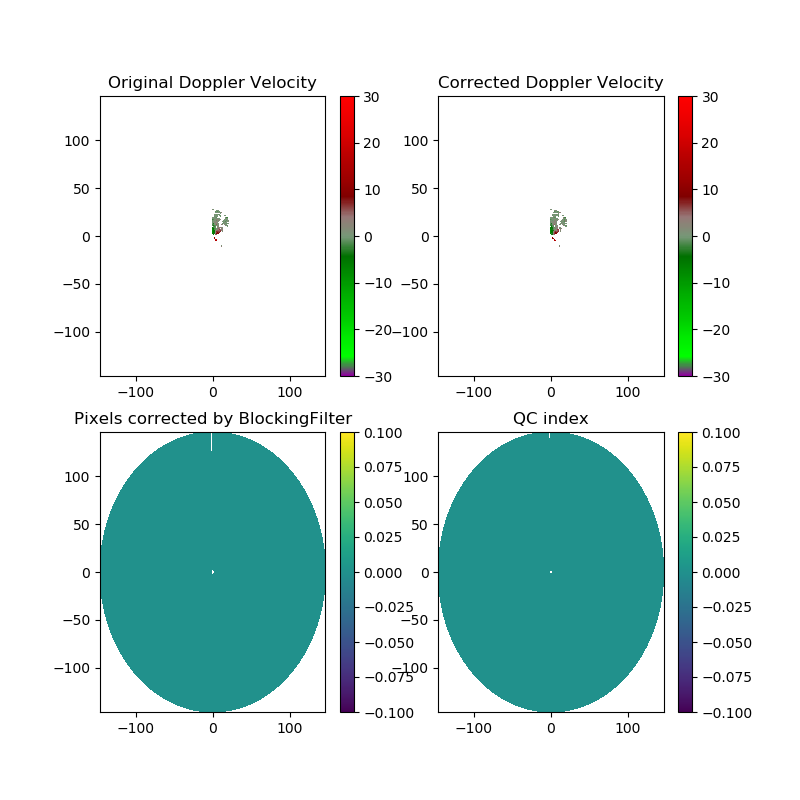
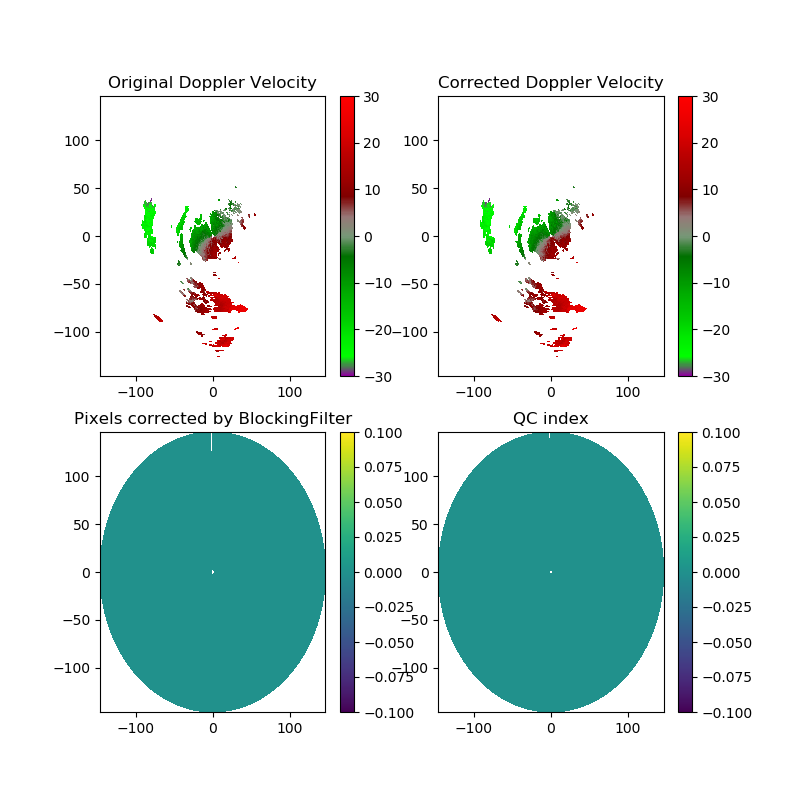
minor update

Changed region(s): [[0.1562, 0.25, 0.3125, 0.4375], [0.5938, 0.25, 0.75, 0.4375]]

diff --git a/conf_defaults_test.py b/conf_defaults_test.py
@@ -41,8 +41,8 @@ options['plot']['VrMin']=-30
 options['plot']['VrMax']=30
 options['plot']['DbzMin']=0
 options['plot']['DbzMax']=70
-options['plot']['Elevs']=[3]             #List with elevations that will be ploted.
-options['plot']['Show']=True
+options['plot']['Elevs']=[0,1,2,3]             #List with elevations that will be ploted.
+options['plot']['Show']=False
 options['plot']['CmapWind']='pyart_NWSVel'
 options['plot']['CmapDbz']='pyart_NWSRef'
 
@@ -91,21 +91,21 @@ filter_name='Dealiasing'
 options[filter_name]=dict()
 options[filter_name]['flag']=True
 options[filter_name]['interval_split']=3
-options[filter_name]['skip_between_ray']=10
-options[filter_name]['skip_along_ray']=10
+options[filter_name]['skip_between_ray']=30
+options[filter_name]['skip_along_ray']=200
 options[filter_name]['nx']=3
 options[filter_name]['ny']=3
 options[filter_name]['nz']=0
 options[filter_name]['code']=43
 options[filter_name]['sequential']=True                    #Wheter this filter will affect the following filters.
-options[filter_name]['order'] = [1]
+options[filter_name]['order'] = [10]
 options[filter_name]['var_update_list']=['v']              #Which variables will be filtered.
 
 #Rho filter parameters  ===================================================================== 
 
 filter_name='RhoFilter'
 options[filter_name]=dict()
-options[filter_name]['flag']=False                          #Enable / disable filter
+options[filter_name]['flag']=True                          #Enable / disable filter
 options[filter_name]['nx']=2                                #NX
 options[filter_name]['ny']=2                                #NY
 options[filter_name]['nz']=0                                #NZ
@@ -151,7 +151,7 @@ options[filter_name]['fill_value']='undef'                  #Possible values, un
 
 filter_name='EchoTopFilter'
 options[filter_name]=dict()
-options[filter_name]['flag']=False                          #Enable / disable filter
+options[filter_name]['flag']=True                          #Enable / disable filter
 options[filter_name]['nx']=2                                #NX
 options[filter_name]['ny']=2                                #NY
 options[filter_name]['nz']=0                                #NZ
@@ -195,7 +195,7 @@ options[filter_name]['fill_value']='undef'                  #Possible values, un
 
 filter_name='RefSpeckleFilter'
 options[filter_name]=dict()
-options[filter_name]['flag']=False                          #Enable / disable filter
+options[filter_name]['flag']=True                          #Enable / disable filter
 options[filter_name]['nx']=2                                #NX
 options[filter_name]['ny']=2                                #NY
 options[filter_name]['nz']=0                                #NZ
@@ -278,7 +278,7 @@ options[filter_name]['fill_value']='undef'                  #Possible values, un
 #Attenuation parameters           ==============================================================
 filter_name='AttenuationFilter'
 options[filter_name]=dict()
-options[filter_name]['flag']=False                           #Enable / Disable filter
+options[filter_name]['flag']=True                           #Enable / Disable filter
 options[filter_name]['nx']=0                                #NX
 options[filter_name]['ny']=0                                #NY
 options[filter_name]['nz']=0                                #NZ
@@ -310,7 +310,7 @@ options[filter_name]['fill_value']='undef'                  #Possible values, un
 #This filter is not part of the Fuzzy logic algorithm.
 filter_name='BlockingFilter'
 options[filter_name]=dict()
-options[filter_name]['flag']=False                          #Enable / Disable filter
+options[filter_name]['flag']=True                          #Enable / Disable filter
 options[filter_name]['blocking_correction']=True            #Wether correction will be applied for partially blocked beams.
 options[filter_name]['save']=False                          #Save blocking factor into qc_output dictionary.
 options[filter_name]['code']=40                             #QC output code
@@ -328,7 +328,7 @@ options[filter_name]['fill_value']='undef'                  #Possible values, un
 #Low elevation angles filter parameters ==============================================================
 filter_name='LowElevFilter'
 options[filter_name]=dict()
-options[filter_name]['flag']=False                          #Enable / Disable filter
+options[filter_name]['flag']=True                          #Enable / Disable filter
 options[filter_name]['nx']=0                                #NX
 options[filter_name]['ny']=0                                #NY
 options[filter_name]['nz']=0                                #NZ
@@ -349,7 +349,7 @@ options[filter_name]['fill_value']='undef'                  #Possible values, un
 #Low doppler velocity filter            ==============================================================
 filter_name='LowDopplerFilter'
 options[filter_name]=dict()
-options[filter_name]['flag']=False                          #Enable / Disable filter
+options[filter_name]['flag']=True                          #Enable / Disable filter
 options[filter_name]['nx']=0                                #NX
 options[filter_name]['ny']=0                                #NY
 options[filter_name]['nz']=0                                #NZ
@@ -370,7 +370,7 @@ options[filter_name]['fill_value']='undef'                  #Possible values, un
 #This filter is not included in the Fuzzy-logic approach.
 filter_name='InterferenceFilter'
 options[filter_name]=dict()
-options[filter_name]['flag']=False                          #Enable / Disable filter
+options[filter_name]['flag']=True                          #Enable / Disable filter
 options[filter_name]['save']=False                          #Save filter aux fields to output?
 options[filter_name]['nx']=0                                #NX
 options[filter_name]['ny']=4                                #NY
@@ -439,12 +439,12 @@ options[filter_name]['fill_value']='undef'                  #Possible values, un
 #Doppler Spatial Coherence Filter ==============================================================
 filter_name='DopplerSpatialCoherenceFilter'
 options[filter_name]=dict()
-options[filter_name]['flag']=False                          #Enable / Disable filter
+options[filter_name]['flag']=True                           #Enable / Disable filter
 options[filter_name]['nx']=2                                #NX
 options[filter_name]['ny']=2                                #NY
 options[filter_name]['nz']=0                                #NZ
 options[filter_name]['threshold_undef']=0.1                 #Minimum percentage of valid points required
-options[filter_name]['threshold_corr'] =0.7                 #Minimum correlation required to keep a ray.
+options[filter_name]['threshold_corr'] =0.6                 #Minimum correlation required to keep a ray.
 options[filter_name]['threshold_coherence_index']=1         #Threshold to decied which pixels will be removed.
 options[filter_name]['compute_horizontal_coherence']=True   #Flag to consider coherence in azimuth.
 options[filter_name]['compute_vertical_coherence']=False    #Flag to consider coherence in elevation
@@ -463,38 +463,17 @@ options[filter_name]['w']=1.0                               #Relative parameter 
 options[filter_name]['code']=34
 options[filter_name]['force']=True                          #Wether we will reject data based on this filter alone.
 options[filter_name]['force_value']=0.5                     #Threshold for force
-options[filter_name]['order'] = [2]
+options[filter_name]['order'] = [10]
 options[filter_name]['sequential']=True                        
 options[filter_name]['var_update_list']=['v']               #Which variables will be filtered.
 options[filter_name]['sequential']=True                     #Wheter this filter will affect the following filters.
 options[filter_name]['fill_value']='undef'                  #Possible values, undef, min_ref or fill value
 
 #Doppler Noise filter FIRST PASS, BEFORE DEALIASING    ==============================================================
+
 filter_name='DopplerNoiseFilter'
 options[filter_name]=dict()
-options[filter_name]['flag']=False                          #Enable / Disable filter
-options[filter_name]['nx']=[1,10]                           #NX
-options[filter_name]['ny']=[1,10]                           #NY
-options[filter_name]['nz']=[0,0]                            #NZ
-options[filter_name]['threshold']=[2.0] 
-options[filter_name]['n_filter_pass']=[3]                   #Filter repetition
-options[filter_name]['save']=False                          #Save filter aux fields to output?
-options[filter_name]['ify']=np.array([0,1])                 #Importance function y
-options[filter_name]['ifx']=np.array([0,1])                 #Importance function x
-options[filter_name]['w']=1.0                               #Relative parameter weigth. 
-options[filter_name]['code']= 1
-options[filter_name]['force']=True                          #Wether we will reject data based on this filter alone.
-options[filter_name]['force_value']=0.5                     #Threshold for force
-options[filter_name]['order'] = [0]
-options[filter_name]['var_update_list']=['v']               #Which variables will be filtered.
-options[filter_name]['sequential']=True                     #Wheter this filter will affect the following filters.
-options[filter_name]['fill_value']='undef'                  #Possible values, undef, min_ref or fill value
-
-
-#Doppler Noise filter SECOND PASS      ==============================================================
-filter_name='DopplerNoiseFilter'
-options[filter_name]=dict()
-options[filter_name]['flag']=False                          #Enable / Disable filter
+options[filter_name]['flag']=True                          #Enable / Disable filter
 options[filter_name]['nx']=[1,10]                           #NX
 options[filter_name]['ny']=[1,10]                           #NY
 options[filter_name]['nz']=[0,0]                            #NZ
@@ -507,7 +486,7 @@ options[filter_name]['w']=1.0                               #Relative parameter 
 options[filter_name]['code']= 1
 options[filter_name]['force']=True                          #Wether we will reject data based on this filter alone.
 options[filter_name]['force_value']=0.5                     #Threshold for force
-options[filter_name]['order'] = [18]
+options[filter_name]['order'] = [0]
 options[filter_name]['var_update_list']=['v']               #Which variables will be filtered.
 options[filter_name]['sequential']=True                     #Wheter this filter will affect the following filters.
 options[filter_name]['fill_value']='undef'                  #Possible values, undef, min_ref or fill value

diff --git a/src/python/radar_qc_module.py b/src/python/radar_qc_module.py
@@ -533,8 +533,9 @@ def plot_filter( output , qc_index , weigth , options , filter_name )  :
 
    if ( 'ref' in options[filter_name]['var_update_list'] ) and ( 'ref' in output )  :
 
-    tmp_ref=np.ma.masked_array( output['input_ref'] , output['input_ref'] == output['undef_ref'] )
-    tmp_cref=np.ma.masked_array( output['cref'] , output['cref'] == output['undef_ref'] )
+    
+    tmp_ref=np.ma.masked_array( output['input_ref'] , np.logical_or( output['input_ref'] == output['undef_ref'] , output['input_ref'] == options['norainrefval'] ) )
+    tmp_cref=np.ma.masked_array( output['cref'] , np.logical_or( output['cref'] == output['undef_ref'] ,  output['input_ref'] == options['norainrefval'] ) )
     tmp_qc_index=np.ma.masked_array( qc_index , qc_index == options['undef'] )
 
     for ilev in options['plot']['Elevs']  :
@@ -726,12 +727,17 @@ def Dealiasing( radar , output , options )   :
       #Define a new instance of the radar strcture containing the wind (potentially affected by previous filters).
       radar.add_field_like( options['name_v'], options['name_cv'] , radar.fields[ options['name_v'] ]['data'] , True)
       tmp = order_variable_inv(  radar , output['v'] , output['undef_v'] )
-      radar.fields[ options['name_cv'] ]['data']= np.ma.masked_array( tmp , tmp==output['undef_v'] )
+      radar.fields[ options['name_cv'] ]['data']= np.ma.masked_array( tmp , mask = tmp==output['undef_v'] )
 
       #Uso una de las funciones de dealiasing de pyart con los parametros por defecto
-      winddealias=pyart.correct.region_dealias.dealias_region_based(radar,interval_splits=options[filter_name]['interval_split'],interval_limits=None, 
-                 skip_between_rays=options[filter_name]['skip_between_ray'],skip_along_ray=options[filter_name]['skip_along_ray'],centered=True,nyquist_vel=None,
-                 check_nyquist_uniform=True,gatefilter=False,rays_wrap_around=True,keep_original=False,set_limits=True,
+#      winddealias=pyart.correct.region_dealias.dealias_region_based(radar,interval_splits=20,interval_limits=None, 
+#                 skip_between_rays=0,skip_along_ray=0,centered=True,nyquist_vel=None,
+#                 check_nyquist_uniform=True,gatefilter=None,rays_wrap_around=True,keep_original=True,set_limits=True,
+#                 vel_field=options['name_cv'] ,corr_vel_field=None)
+
+      winddealias=pyart.correct.region_dealias.dealias_region_based(radar,interval_splits=3,interval_limits=None, 
+                 skip_between_rays=30,skip_along_ray=200,centered=True,nyquist_vel=None,
+                 check_nyquist_uniform=True,gatefilter=None,rays_wrap_around=True,keep_original=True,set_limits=True,
                  vel_field=options['name_cv'] ,corr_vel_field=None)
 
       #Replace cv wind by dealiased winds.
